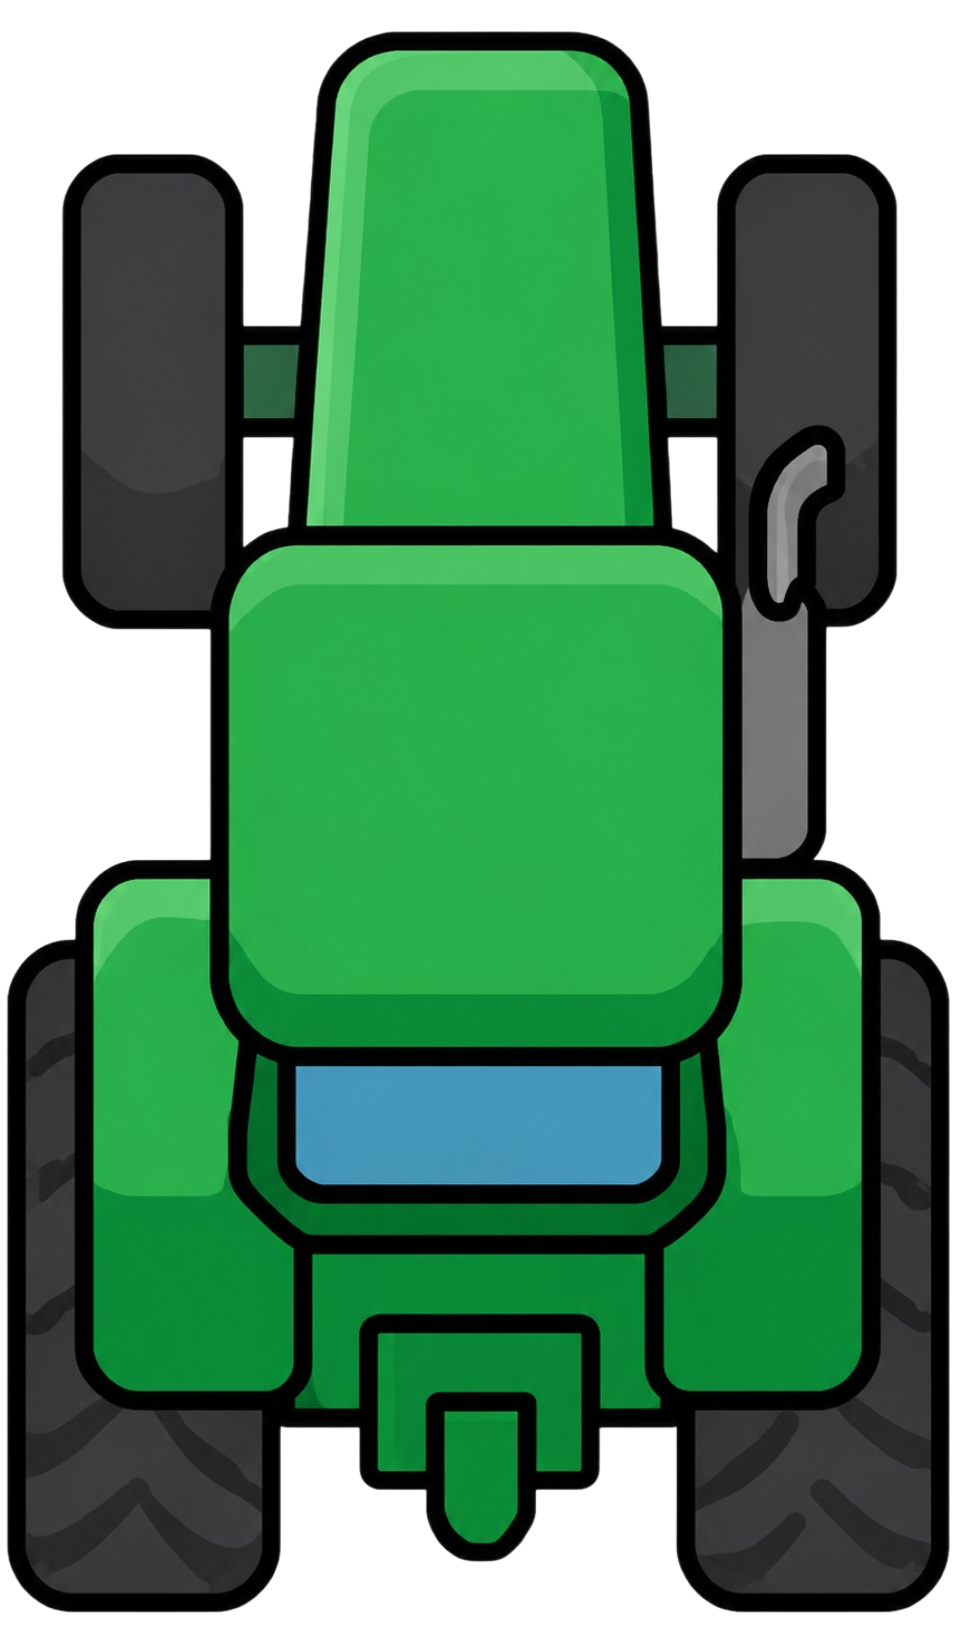
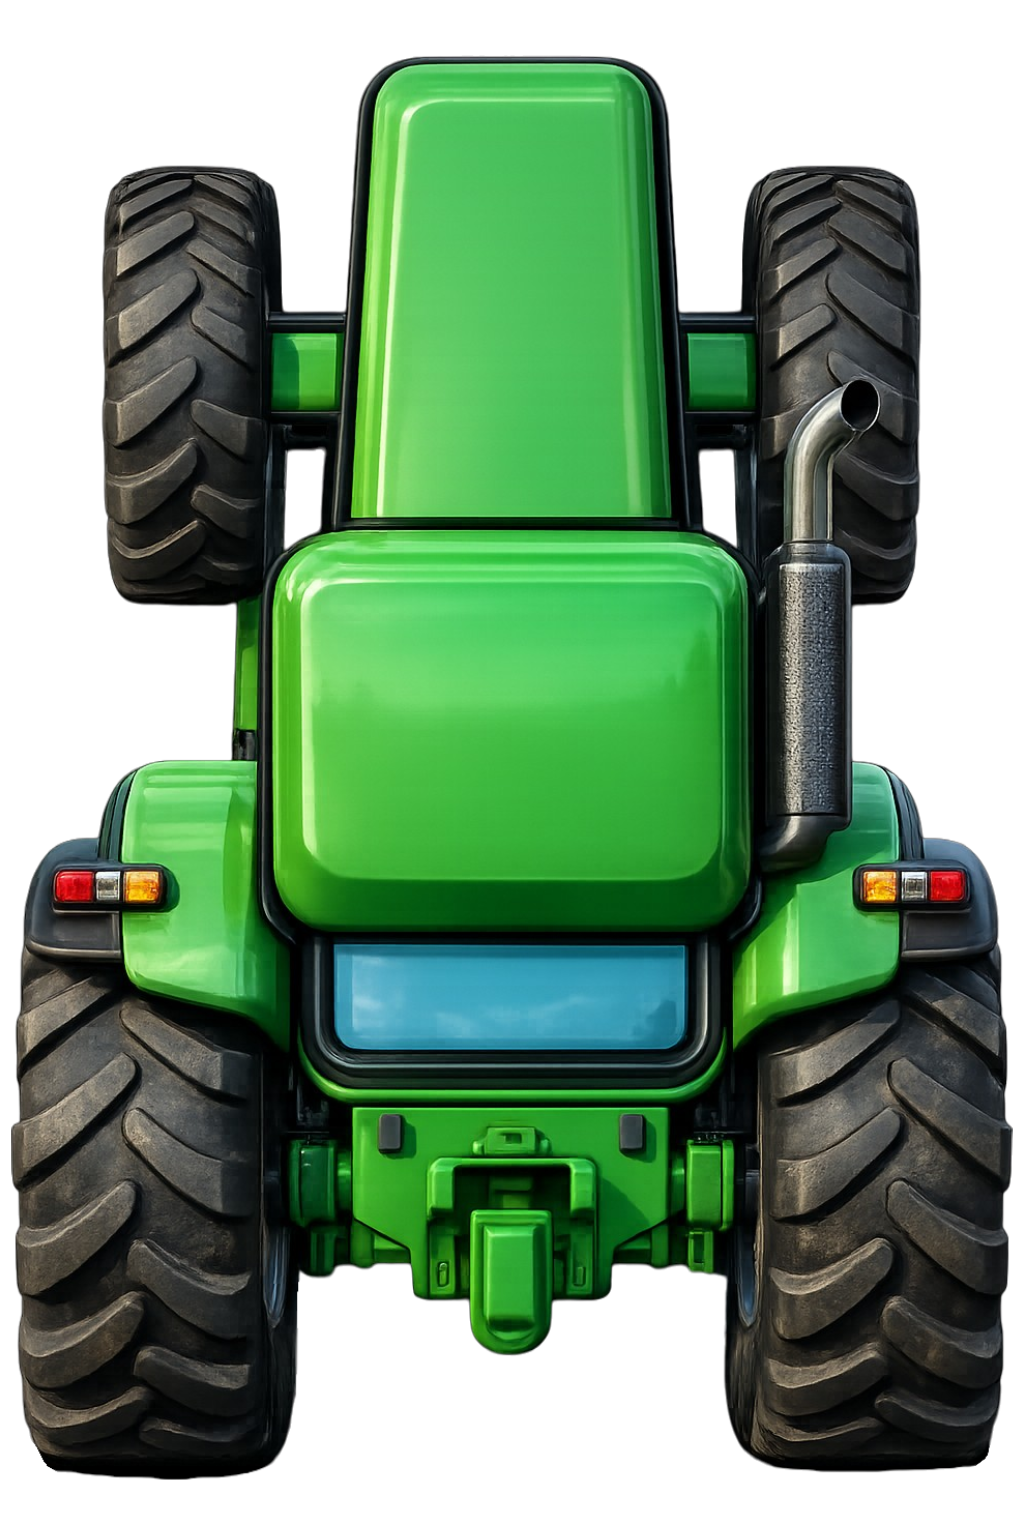
Background tiles

diff --git a/src/games/juego-tractor/engine/background.ts b/src/games/juego-tractor/engine/background.ts
@@ -1,9 +1,14 @@
-import { drawCover } from './drawing';
-
 /**
- * Fondo con scroll vertical infinito. Dibuja la misma imagen dos veces apiladas
- * (una encima de la otra) y desplaza el offset hacia abajo; al superar el alto del
- * canvas hace wrap, generando el efecto de movimiento continuo arriba→abajo.
+ * Fondo con scroll vertical infinito a partir de una TILE repetible.
+ *
+ * `bg-tile.png` es una tira corta que empalma consigo misma (su borde inferior
+ * coincide con el superior). Se escala al ancho del canvas conservando su
+ * proporción y se apila tantas veces como haga falta para cubrir el alto,
+ * desplazando el stack hacia abajo. Al pasar una altura de tile hace wrap,
+ * generando movimiento continuo arriba→abajo.
+ *
+ * Para cambiar el fondo mañana: reemplazar `bg-tile.png` por otra tira repetible
+ * (cualquier resolución sirve, se reescala al ancho).
  */
 export class ScrollingBackground {
   private offset = 0;
@@ -16,14 +21,20 @@ export class ScrollingBackground {
    * @param height   alto del canvas en px
    */
   update(distance: number, height: number): void {
-    this.offset = (this.offset + distance * height) % height;
+    this.offset += distance * height;
   }
 
   render(ctx: CanvasRenderingContext2D, width: number, height: number): void {
-    const y = this.offset;
-    // Copia que entra desde arriba.
-    drawCover(ctx, this.img, { x: 0, y: y - height, w: width, h: height });
-    // Copia que sale por abajo.
-    drawCover(ctx, this.img, { x: 0, y, w: width, h: height });
+    // Alto de la tile escalada al ancho del canvas (mantiene proporción).
+    const tileH = width * (this.img.height / this.img.width);
+
+    // Acotar el offset a [0, tileH) para evitar pérdida de precisión en sesiones largas.
+    this.offset %= tileH;
+
+    // Primera tile arranca apenas por encima del borde superior; +1px de solape
+    // entre tiles para que el redondeo subpíxel no abra costuras.
+    for (let y = this.offset - tileH; y < height; y += tileH) {
+      ctx.drawImage(this.img, 0, Math.round(y), width, Math.ceil(tileH) + 1);
+    }
   }
 }

diff --git a/src/games/juego-tractor/components/GameCanvas.tsx b/src/games/juego-tractor/components/GameCanvas.tsx
@@ -6,8 +6,11 @@ import { GAME_CONFIG } from '../config';
 import { Hud } from './Hud';
 
 interface GameCanvasProps {
-  /** Se llama con el puntaje final cuando se acaban las vidas. */
-  onGameOver: (finalScore: number) => void;
+  /**
+   * Se llama al acabarse las vidas con el puntaje final y un snapshot (dataURL)
+   * del canvas en ese instante, para mostrarlo congelado en la pantalla final.
+   */
+  onGameOver: (finalScore: number, frame: string) => void;
 }
 
 /**
@@ -24,9 +27,19 @@ export function GameCanvas({ onGameOver }: GameCanvasProps) {
 
   const handleChange = useCallback((s: GameSnapshot) => setSnapshot(s), []);
 
+  // Captura el último frame dibujado (escena del juego) antes de desmontar el
+  // canvas, para usarlo como fondo congelado en la pantalla final.
+  const handleGameOver = useCallback(
+    (finalScore: number) => {
+      const frame = canvasRef.current?.toDataURL('image/png') ?? '';
+      onGameOver(finalScore, frame);
+    },
+    [onGameOver],
+  );
+
   const { error, engineRef } = useGameEngine(canvasRef, {
     onChange: handleChange,
-    onGameOver,
+    onGameOver: handleGameOver,
   });
 
   const onLeft = useCallback(() => engineRef.current?.moveLeft(), [engineRef]);

diff --git a/src/games/juego-tractor/pages/GameOverPage.tsx b/src/games/juego-tractor/pages/GameOverPage.tsx
@@ -1,13 +1,18 @@
 interface GameOverPageProps {
   score: number;
+  /** Snapshot del canvas al perder (dataURL); se muestra de fondo congelado. */
+  frame: string | null;
   /** Finaliza la partida y vuelve a la pantalla de selección (launcher). */
   onExit: () => void;
 }
 
-/** Pantalla de fin de juego: puntaje final y botón para finalizar. */
-export function GameOverPage({ score, onExit }: GameOverPageProps) {
+/** Pantalla de fin de juego: escena congelada + puntaje final y botón para finalizar. */
+export function GameOverPage({ score, frame, onExit }: GameOverPageProps) {
   return (
-    <div className="relative h-dvh w-dvw overflow-hidden bg-[url('/tractor/bg.png')] bg-cover bg-center">
+    <div className="relative h-dvh w-dvw overflow-hidden bg-black">
+      {frame && (
+        <img src={frame} alt="" className="absolute inset-0 h-full w-full object-cover" />
+      )}
       <div className="absolute inset-0 flex flex-col items-center justify-center gap-[2vh] bg-black/60 px-[6vh] text-center">
         <img
           src="/shared/logo-bna.png"

diff --git a/src/games/juego-tractor/JuegoTractorGame.tsx b/src/games/juego-tractor/JuegoTractorGame.tsx
@@ -18,6 +18,8 @@ interface JuegoTractorGameProps {
 export default function JuegoTractorGame({ onExit }: JuegoTractorGameProps) {
   const [page, setPage] = useState<GamePage>('home');
   const [finalScore, setFinalScore] = useState(0);
+  // Snapshot del canvas al perder, para mostrarlo de fondo en la pantalla final.
+  const [finalFrame, setFinalFrame] = useState<string | null>(null);
   // Key para forzar un GameCanvas nuevo en cada partida (resetea el engine).
   const [runId, setRunId] = useState(0);
 
@@ -26,8 +28,9 @@ export default function JuegoTractorGame({ onExit }: JuegoTractorGameProps) {
     setPage('playing');
   }, []);
 
-  const handleGameOver = useCallback((score: number) => {
+  const handleGameOver = useCallback((score: number, frame: string) => {
     setFinalScore(score);
+    setFinalFrame(frame);
     setPage('gameover');
   }, []);
 
@@ -46,7 +49,9 @@ export default function JuegoTractorGame({ onExit }: JuegoTractorGameProps) {
 
       {page === 'home' && <HomePage onStart={startGame} />}
       {page === 'playing' && <GameCanvas key={runId} onGameOver={handleGameOver} />}
-      {page === 'gameover' && <GameOverPage score={finalScore} onExit={onExit} />}
+      {page === 'gameover' && (
+        <GameOverPage score={finalScore} frame={finalFrame} onExit={onExit} />
+      )}
     </div>
   );
 }

diff --git a/src/games/juego-tractor/pages/HomePage.tsx b/src/games/juego-tractor/pages/HomePage.tsx
@@ -5,7 +5,14 @@ interface HomePageProps {
 /** Pantalla de inicio del juego: título, instrucciones y botón "Jugar". */
 export function HomePage({ onStart }: HomePageProps) {
   return (
-    <div className="relative h-dvh w-dvw overflow-hidden bg-[url('/tractor/bg.png')] bg-cover bg-center">
+    <div
+      className="relative h-dvh w-dvw overflow-hidden bg-black"
+      style={{
+        backgroundImage: "url('/tractor/bg-tile.png')",
+        backgroundRepeat: 'repeat-y',
+        backgroundSize: '100% auto',
+      }}
+    >
       <div className="absolute inset-0 flex flex-col items-center justify-center gap-[2vh] bg-black/55 px-[6vh] text-center">
         <img src="/tractor/tractor.png" alt="" className="h-[22vh] object-contain drop-shadow-lg" />
         <h1 className="m-0 font-kievit-black text-[7vh] leading-none text-white">Esquivá las vacas</h1>

diff --git a/vite.config.ts b/vite.config.ts
@@ -54,7 +54,11 @@ export default defineConfig({
         navigateFallbackDenylist: [/^\/imagenes\/descargar/, /^\/videos\/descargar/],
       },
       devOptions: {
-        enabled: true,
+        // Desactivado en dev: el service worker precachea imágenes y servía
+        // versiones viejas de los assets (p.ej. el fondo) al iterar. La PWA
+        // sigue funcionando en la build de producción. Poner en true solo si
+        // necesitás probar el comportamiento offline/instalación en dev.
+        enabled: false,
         type: 'module',
       },
     }),

diff --git a/dev-dist/sw.js b/dev-dist/sw.js
@@ -81,7 +81,7 @@ define(['./workbox-7e5eb42b'], (function (workbox) { 'use strict';
     "revision": "3ca0b8505b4bec776b69afdba2768812"
   }, {
     "url": "index.html",
-    "revision": "0.sn88pbpt3l"
+    "revision": "0.ct1utrthjbo"
   }], {});
   workbox.cleanupOutdatedCaches();
   workbox.registerRoute(new workbox.NavigationRoute(workbox.createHandlerBoundToURL("index.html"), {

diff --git a/src/games/juego-tractor/assets.ts b/src/games/juego-tractor/assets.ts
@@ -12,7 +12,7 @@ import type { AssetKey } from './types';
  * renderizan como <img> en el HUD de React (ver `components/Hud.tsx`).
  */
 export const ASSET_SOURCES: Record<AssetKey, string> = {
-  bg: '/tractor/bg.png',
+  bg: '/tractor/bg-tile.png',
   tractor: '/tractor/tractor.png',
   cow: '/tractor/cow.png',
   coin: '/tractor/coin.png',